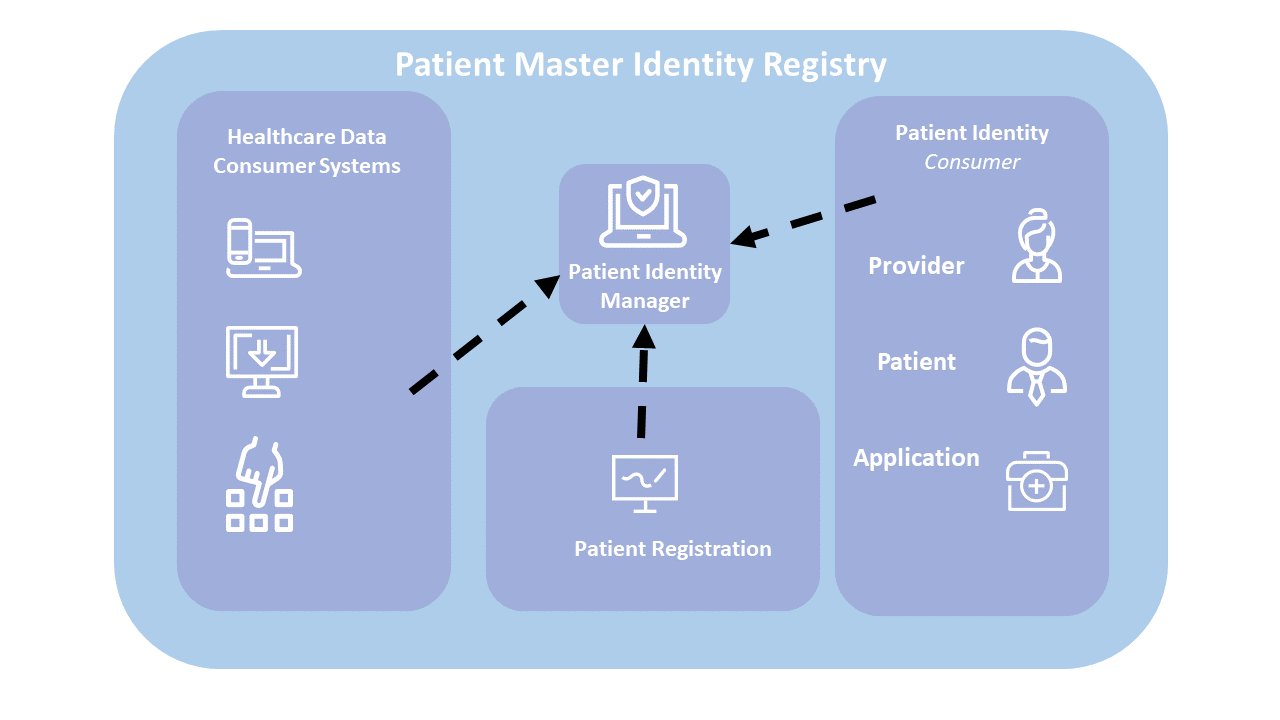
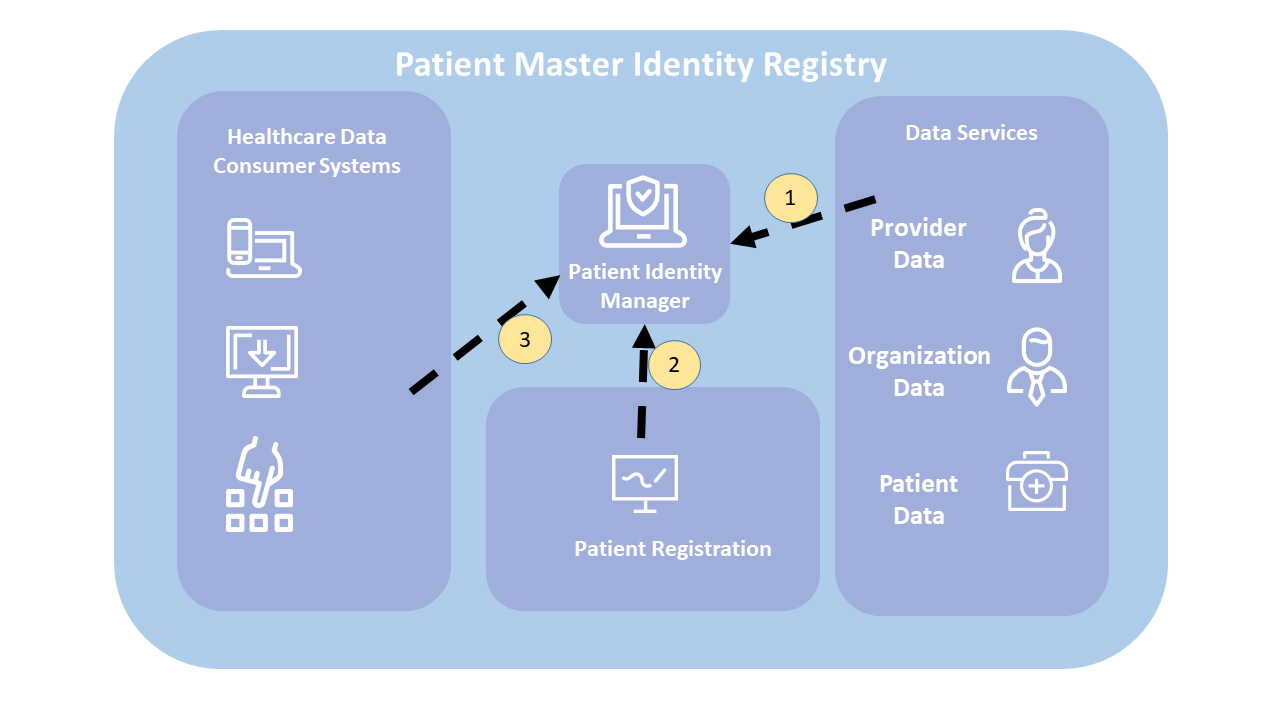
update PMIR diagram

diff --git a/README.md b/README.md
@@ -1240,20 +1240,17 @@ Authorized patient identity source authorities will feed create, update, or merg
 
  A primary use of the PMIR, PDQm, and PIXm Profiles are to enable document consumers and document sources using the [MHDS](http://profiles.ihe.net/ITI/TF/Volume1/ch-50.html) Profile to find the patient’s identifier in that Community Patient Identifier Domain within a [Centralized Discovery and Retrieve](#32-centralized-discovery-and-retrieve) environment.
  
-The Figure 5.4-2 diagram shows three systems: A Registration Desk, A Patient Master Registry, and a Data Services (data server). These are implementing the PMIR actors depicted in yellow boxes. This is not the only way the PMIR actors can be used, many configurations are not shown including one where the Patient Master Registry has internal logic that would have it detect and automatically correct entries which is accomplished by the Patient Master Registry also implementing a Patient Identity Source.
+![](images/PMIR_WorkflowGraphic_v2.png)
+
+**Figure 5.4-1: Patient Master Identity Registry flow**
+
+The Figure 5.4-1 diagram shows four systems: A Patient Registration Desk, A Patient Master Registry, Data Consumer Systems, and a Data Services (data server). These are implementing the PMIR actors. This is not the only way the PMIR actors can be used, many configurations are not shown including one where the Patient Master Registry has internal logic that would have it detect and automatically correct entries which is accomplished by the Patient Master Registry also implementing a Patient Identity Source.
 
 First shown is that the Data Services, representing any or all of the servers (e.g. EHR) in a community that hold data about patient subjects. This Data Services uses the PMIR Patient Identity Subscriber actor to subscribe to be notified if any Patient Identity changes (created, updated, merged, or deleted). This subscription comes in later caused by Registration Desk activities.
  
-Second shown is the Registration Desk activities. A patient presents, so is looked up in the Patient Master Registry. 
-* If there is only one Patient found, and all the demographics are correct, then there is nothing more needing to be done. That one Patient found can be used within the community. 
-* There are three alternatives shown: where one patient needs demographics or identifiers updated, where there is no patient found, and where more than one patient are found. 
-  * In the first case after clarifying that there is a need to make the demographics or identifier change, the Registration desk informs the Patient Master Registry of the  update to the demographics, which causes the Patient Master Registry to record these changes AND inform all the interested parties such as the Data Services that has subscribed.
-  * In the second case after confirming that no patient has found (e.g. a newborn, or new emigrant), the Registration desk informs the Patient Master Registry of the new patient with given demographics, which causes the Patient Master Registry to record this new Patient AND inform all the interested parties such as the Data Services that has subscribed.
-  * In the third case after confirming that the patients found are indeed all the same human, the Registration desk determines which patient entry should be merged into the other. The Registration desk informs the Patient Master Registry of the merged patients with specific instructions on which identity should be used and which identity should not be used anymore, which causes the Patient Master Registry to record this merge Patients AND inform all the interested parties such as the Data Services that has subscribed.
+Second shown is the Registration Desk activities. A patient presents, so is looked up in the Patient Master Registry. The Registration Desk can create new patients, update an existing Patient, or merge where multiple entries are found for the same patient. All updates are notified by the Patient Master Registry to any subscribing systems such as a Data Service.
 
-![](images/PMIR-WorkflowGraphic_v2.png)
-
-**Figure 5.4-2: Patient Master Identity Registry flow**
+Third is the use of these Patient Identities in accessing or creating data in a Data Service.
 
 # 6 Common Provider Directory
 
